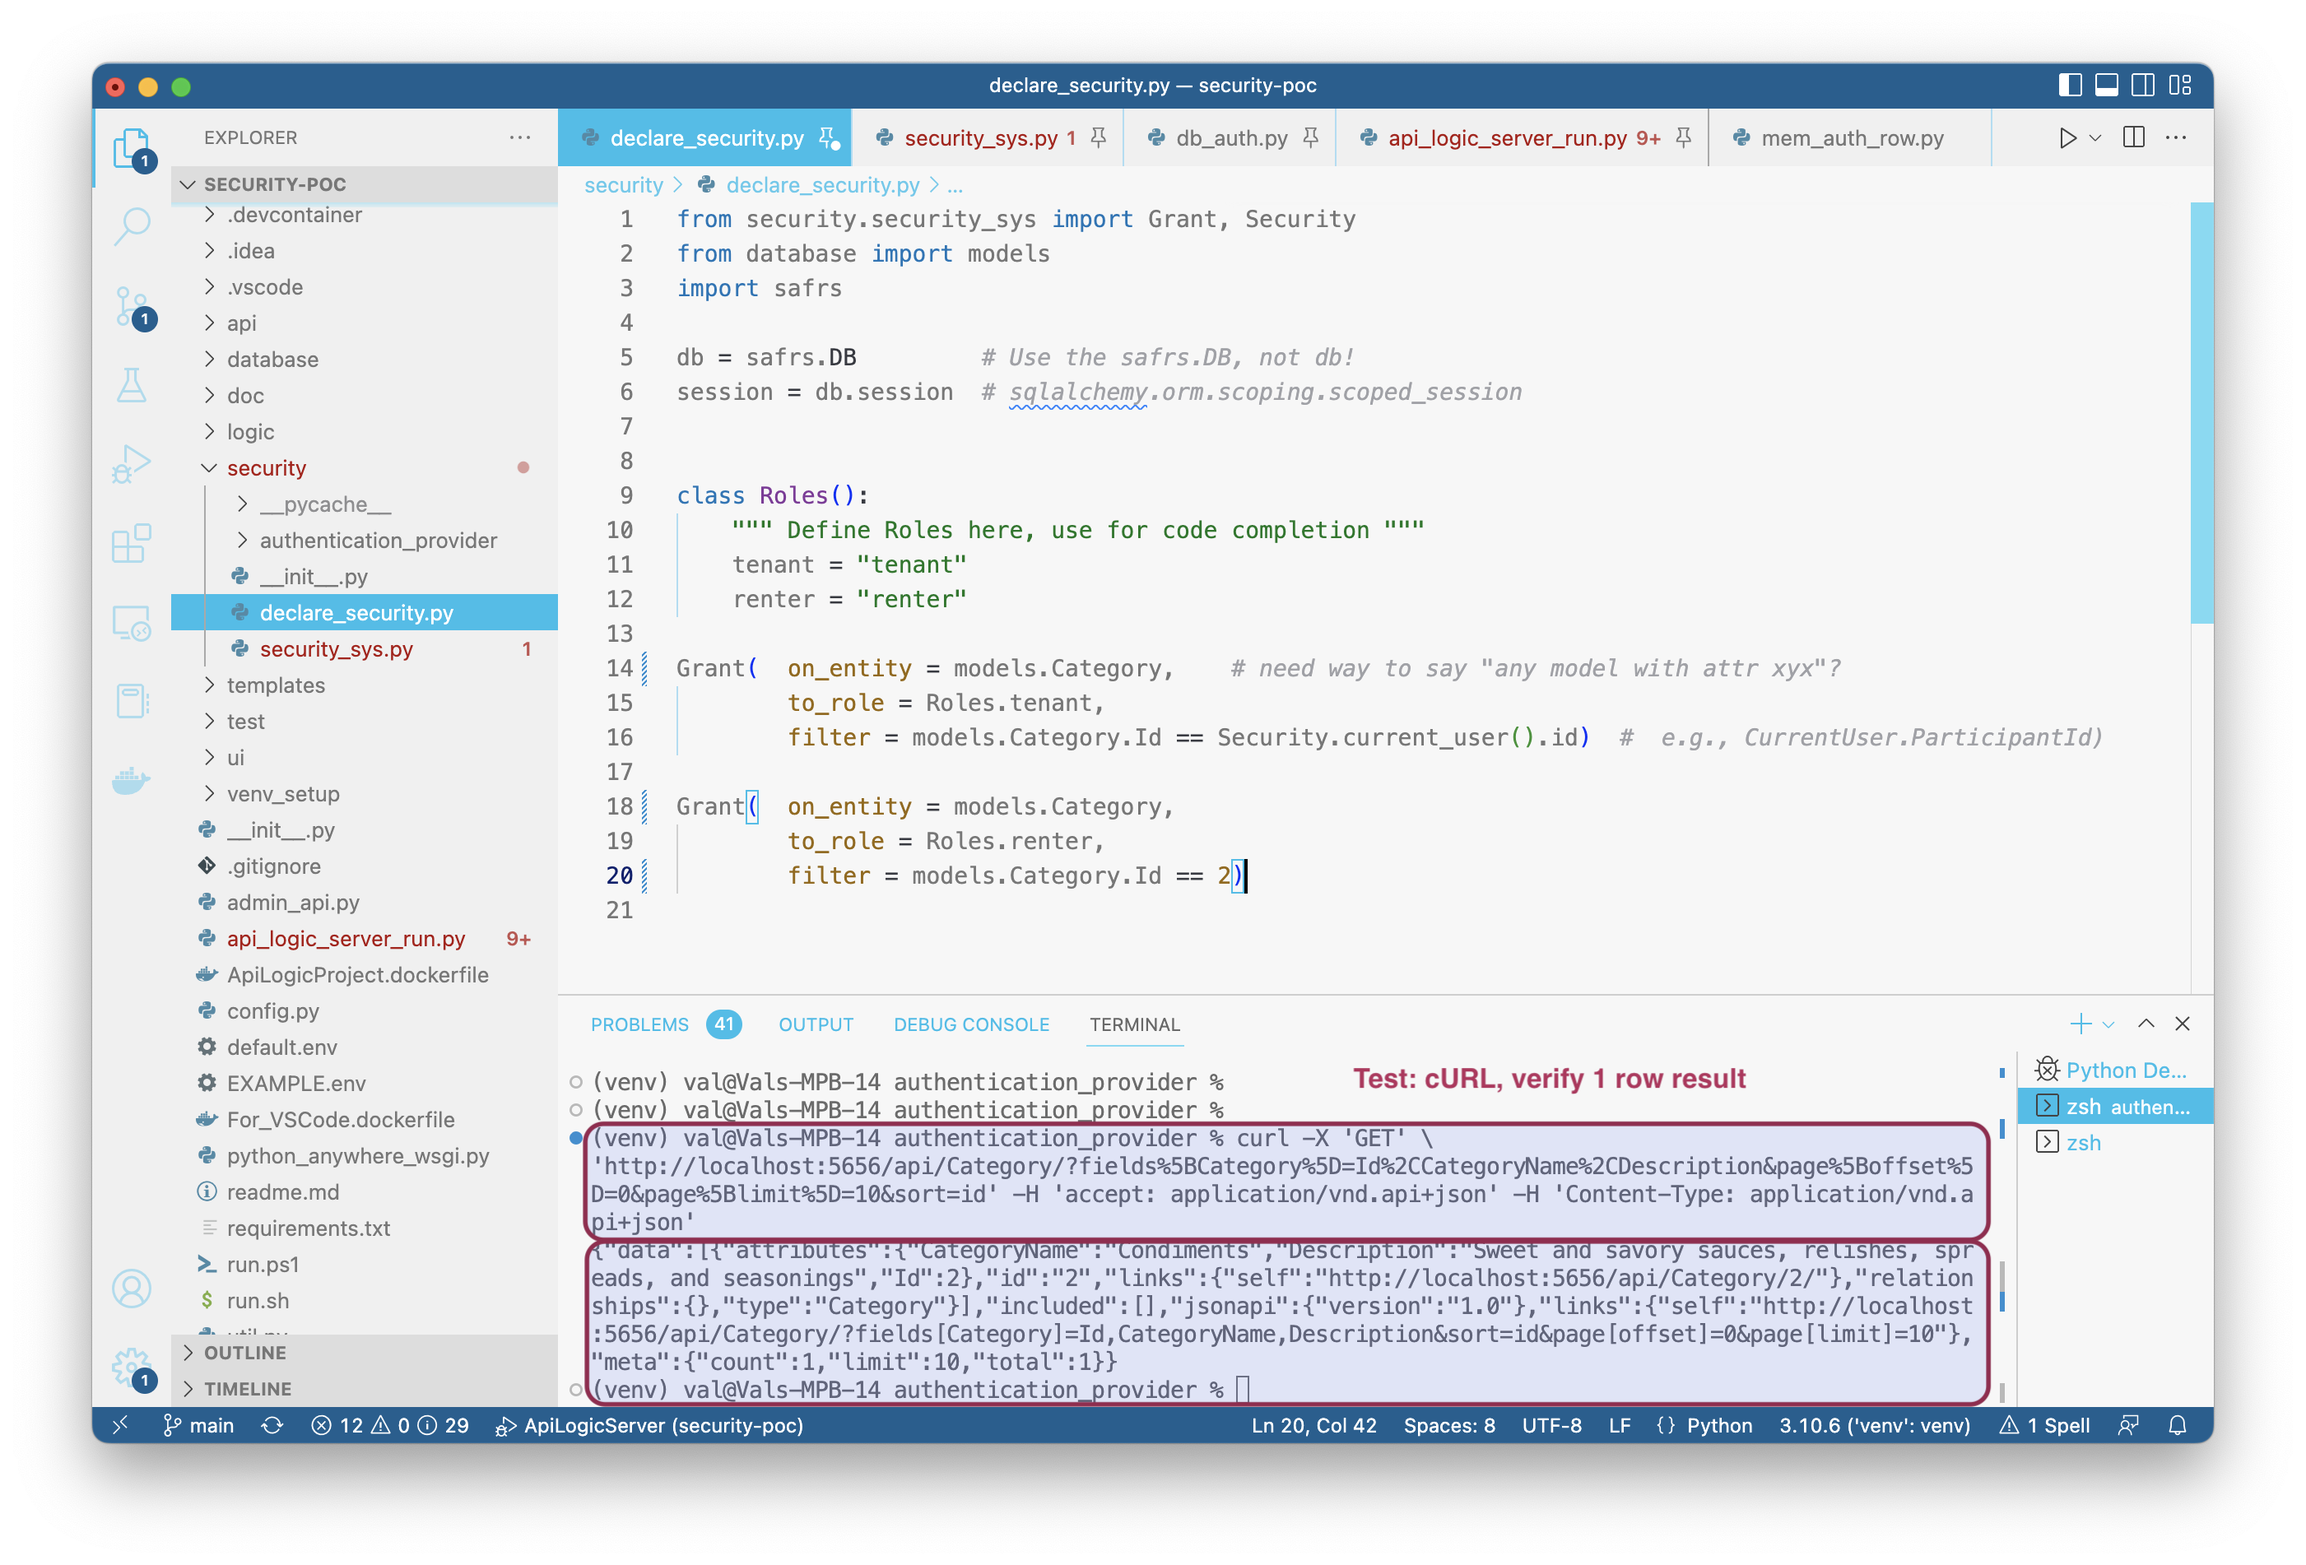
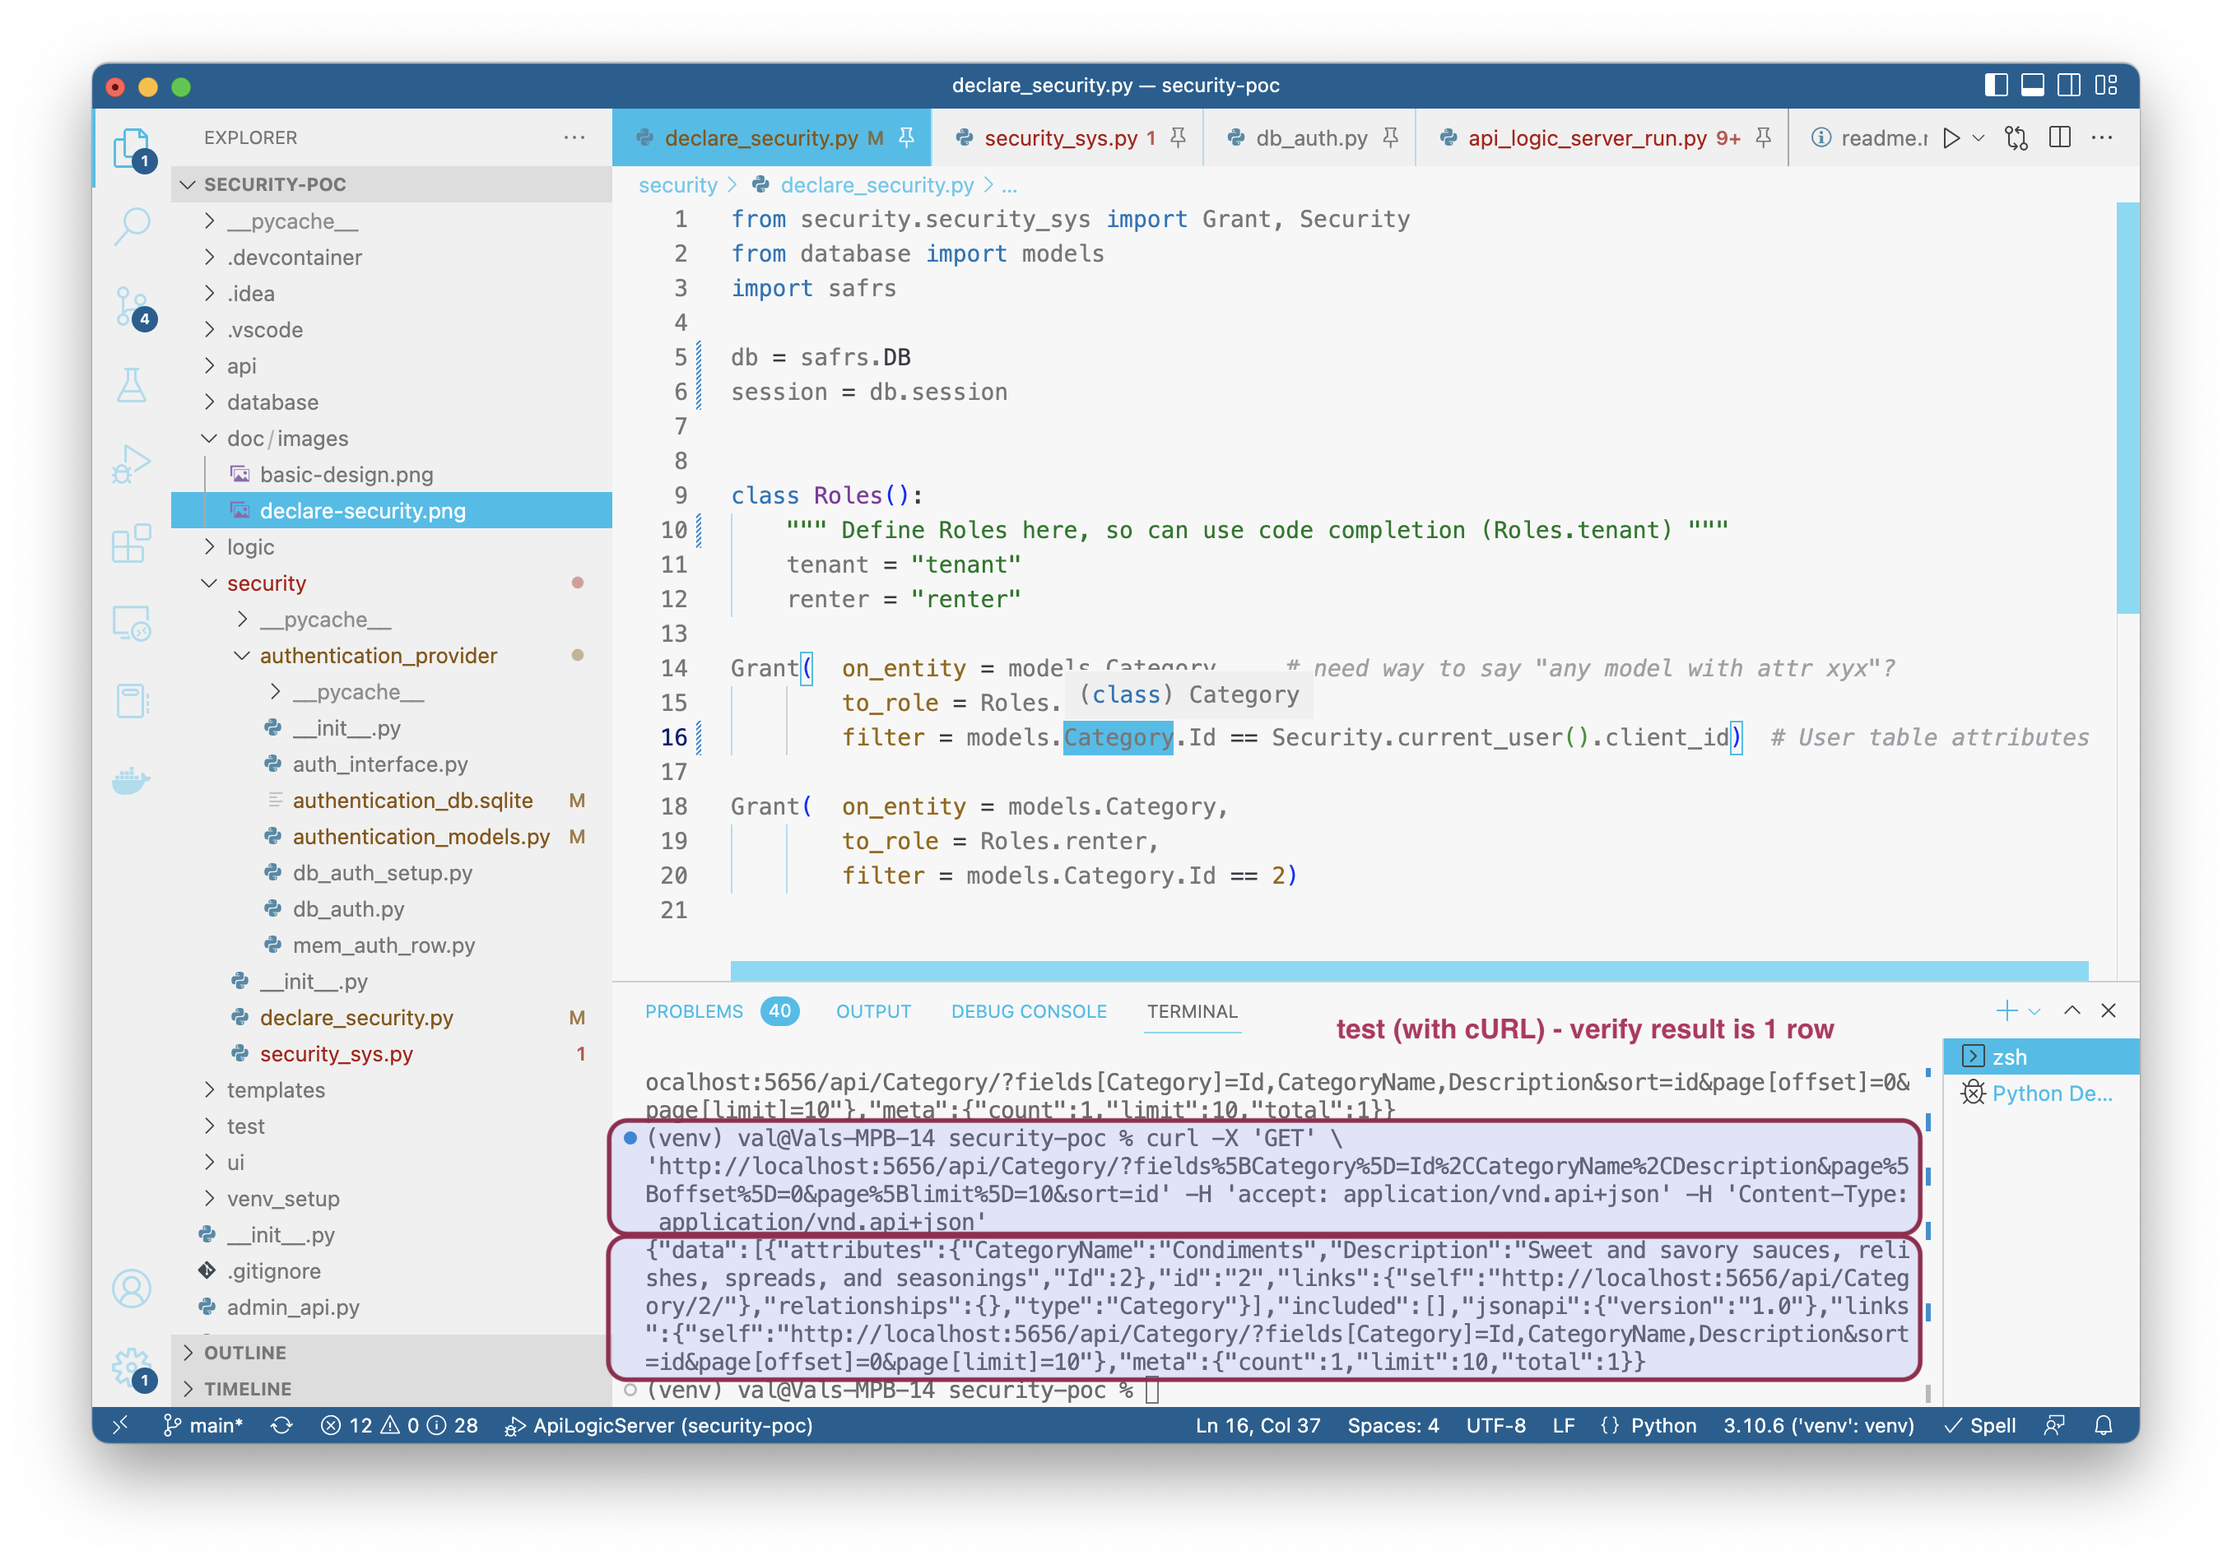
first run: db_auth

diff --git a/security/declare_security.py b/security/declare_security.py
@@ -2,18 +2,18 @@ from security.security_sys import Grant, Security
 from database import models
 import safrs
 
-db = safrs.DB         # Use the safrs.DB, not db!
-session = db.session  # sqlalchemy.orm.scoping.scoped_session
+db = safrs.DB
+session = db.session
 
 
 class Roles():
-    """ Define Roles here, use for code completion """
+    """ Define Roles here, so can use code completion (Roles.tenant) """
     tenant = "tenant"
     renter = "renter"
 
 Grant(  on_entity = models.Category,    # need way to say "any model with attr xyx"?
         to_role = Roles.tenant,
-        filter = models.Category.Id == Security.current_user().id)  #  e.g., CurrentUser.ParticipantId)
+        filter = models.Category.Id == Security.current_user().client_id)  # User table attributes
 
 Grant(  on_entity = models.Category,
         to_role = Roles.renter,

diff --git a/security/authentication_provider/authentication_models.py b/security/authentication_provider/authentication_models.py
@@ -45,6 +45,7 @@ class User(SAFRSBase, BaseSecurity, db.Model, UserMixin):
 
     name = Column(Text)
     id = Column(Integer, primary_key=True)
+    client_id = Column(Integer)
     notes = Column(Text)
 
     UserRoleList = relationship('UserRole', cascade_backrefs=True, backref='user')

diff --git a/readme.md b/readme.md
@@ -47,7 +47,7 @@ You can define filters for users' roles (role-based access control):
 
 Now initially running, per [this support](https://github.com/sqlalchemy/sqlalchemy/discussions/8976), using the in-memory auth provider `security/authentication_provider/mem_auth_row.py.`
 
-The db-based provider (`security/authentication_provider/mem_auth_row.py`) is failing "Users table not found".  This is due to bugs in configuring SQLAlchemy __Binds__ (under investigation - see `api_logic_server_run.py`, around line 400).
+The db-based provider (`security/authentication_provider/mem_auth_row.py`) is also running.
 
 &nbsp;
 
